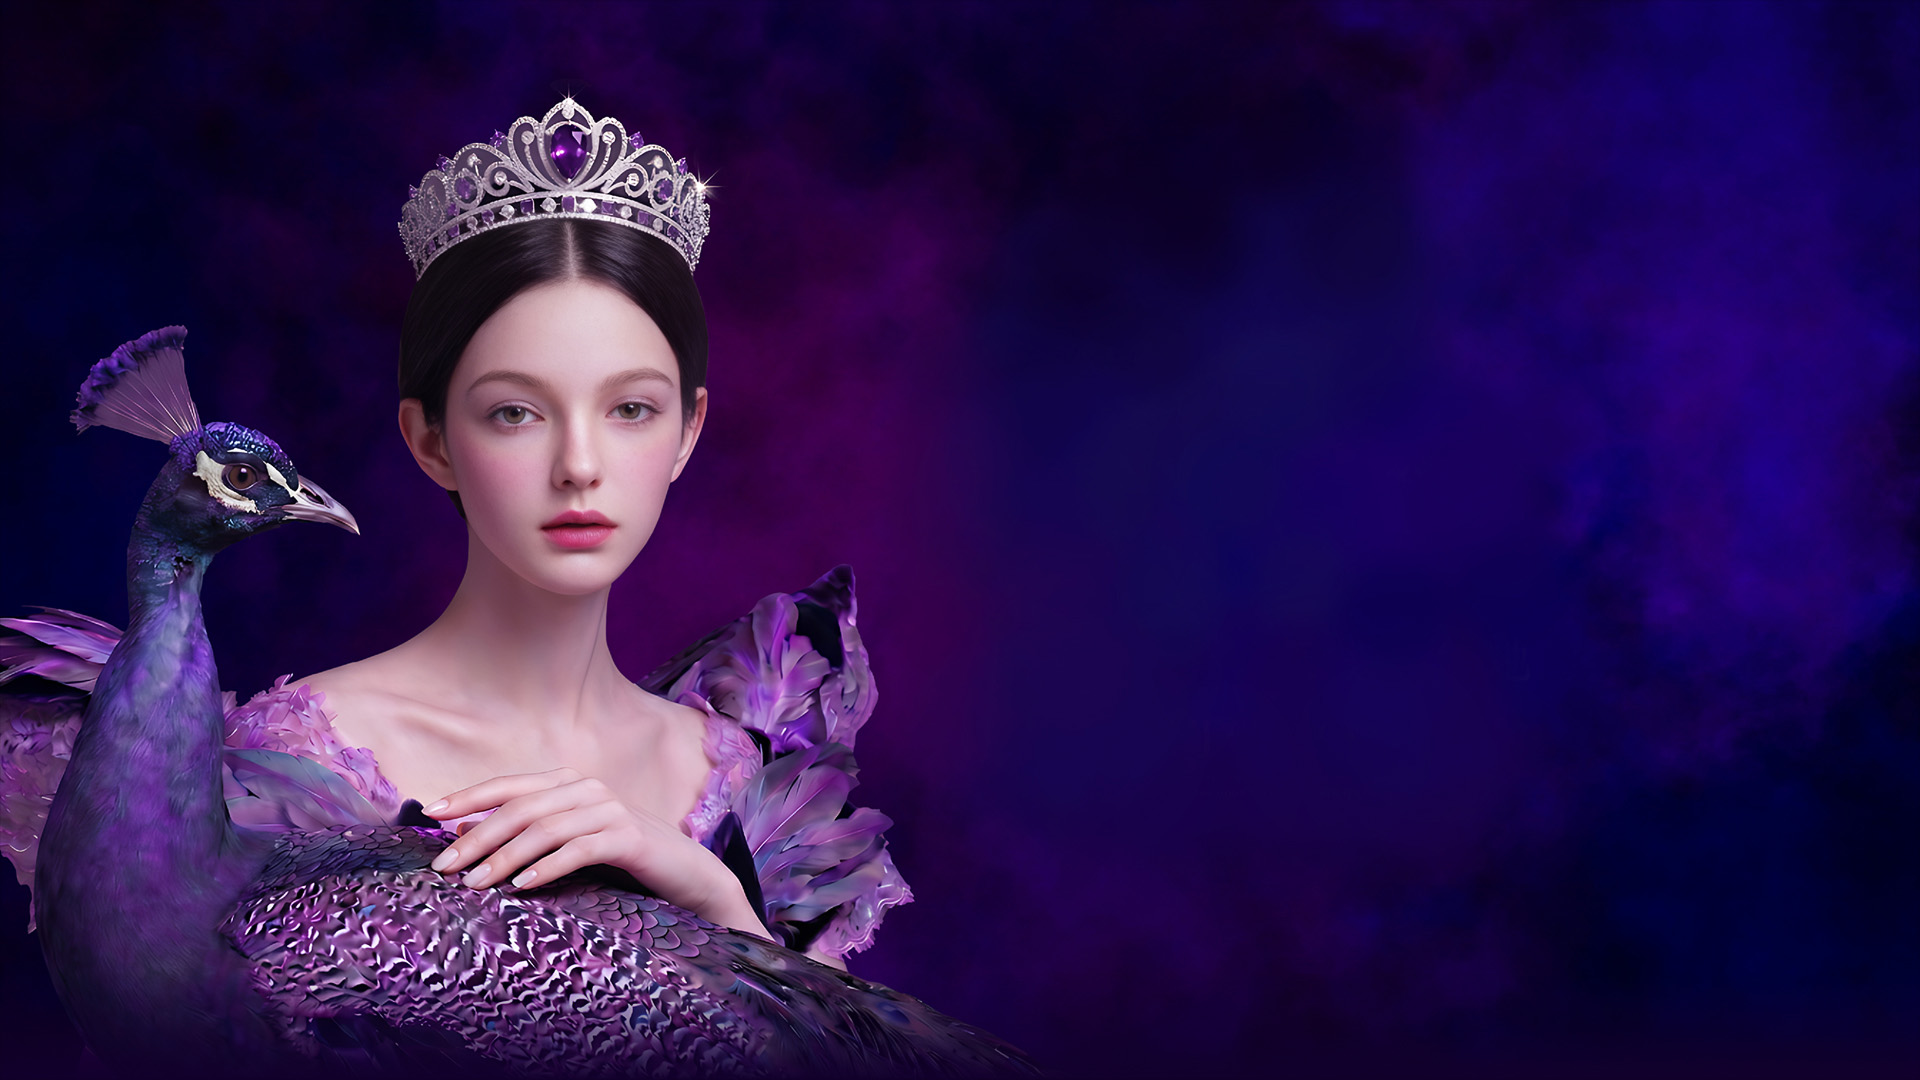
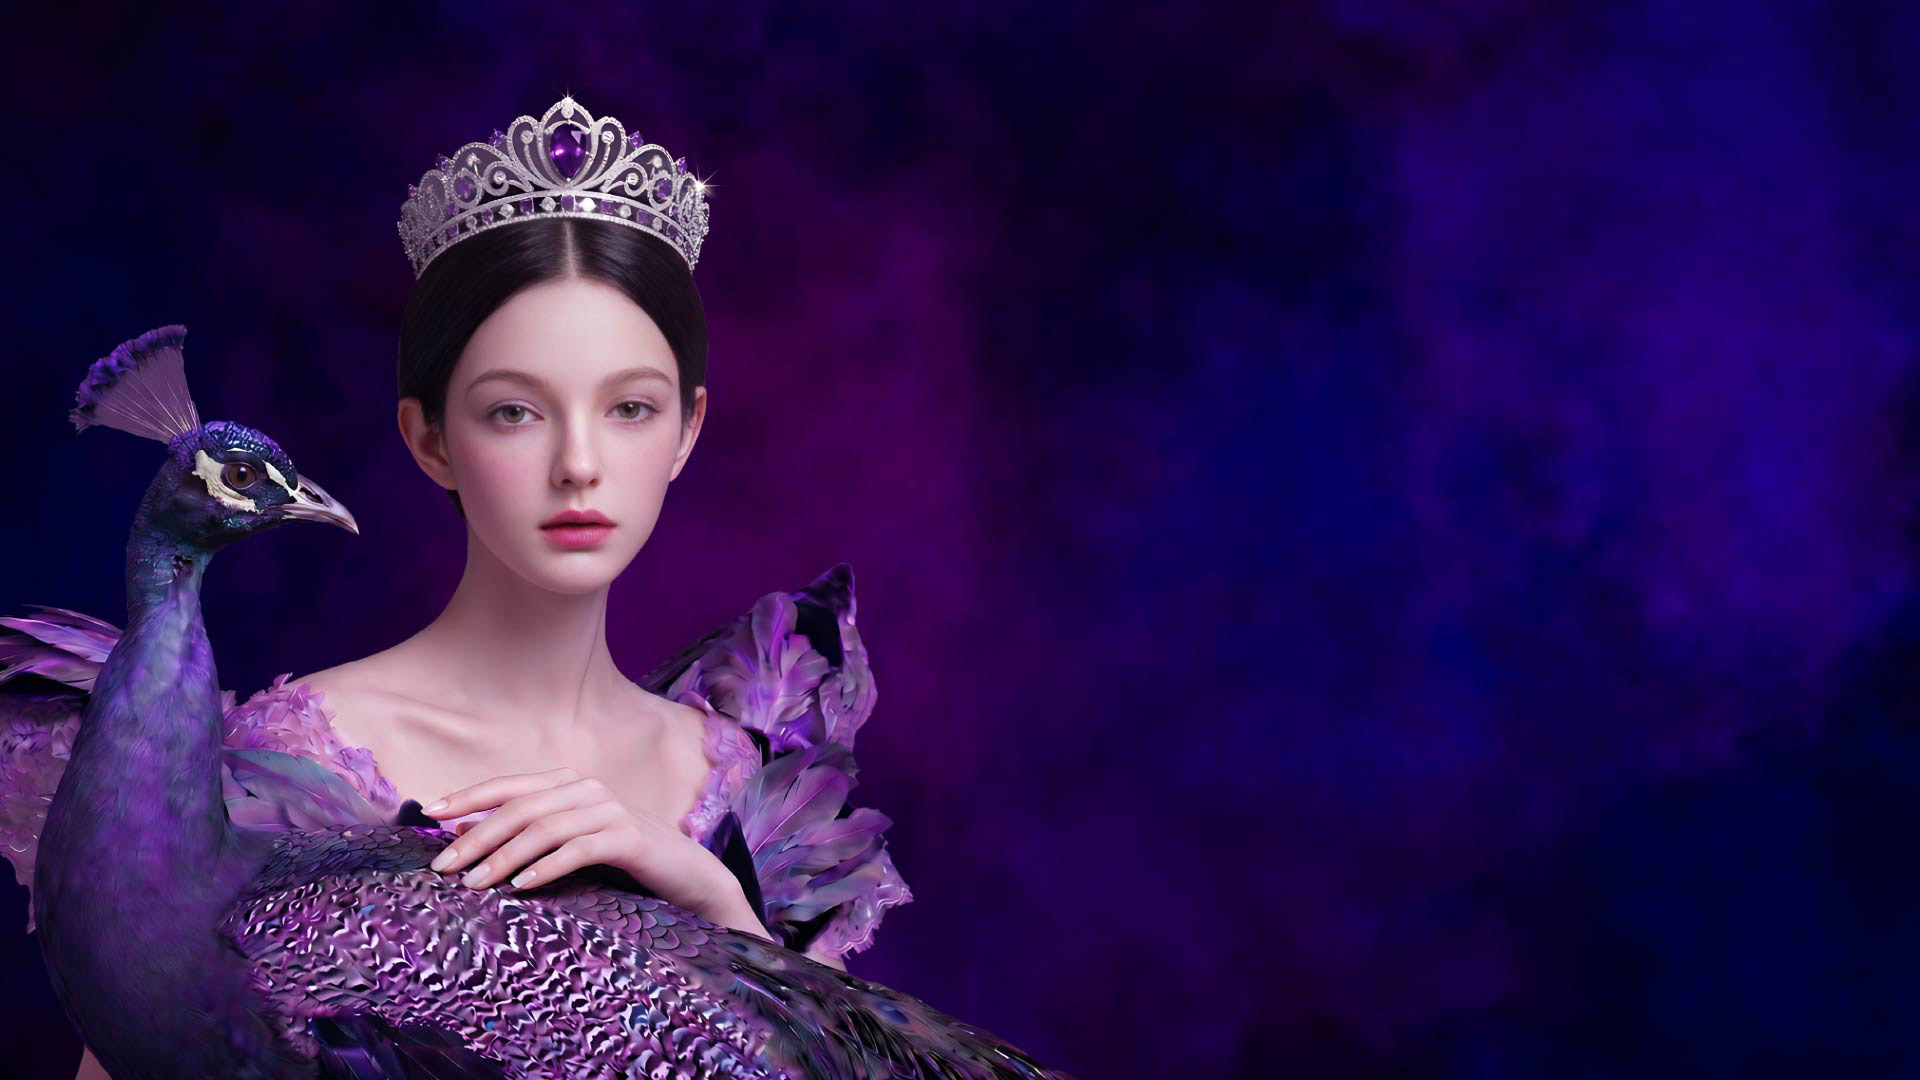
改主視覺跟背景

diff --git a/src/section/s2.vue b/src/section/s2.vue
@@ -95,20 +95,29 @@
 .s2 {
   @apply relative w-full z-0;
   height: size(2250);
-  background-image:linear-gradient(0deg, #28154a 70%, rgba(15, 35, 81, 0) 100%); 
+  
+  background-image: url("@/section/s1/bg1.jpg");
+    background-size:cover;
+ // background-image:linear-gradient(0deg, #28154a 70%, rgba(15, 35, 81, 0) 100%); 
   border-top:2px solid #ceaa6d;   
   &::after {
-    @apply absolute w-full h-full z-10;
+    @apply absolute ;
     content: "";
-   // background-image: url("@/section/s2/bg.png");
-    background-position: top;
-    background-size: 100%;
-    background-repeat: no-repeat;
+    top: size(1067);
+    left: 0;
+    right: 0;
+    display: block;
+    width: 100%;
+    z-index: 21;
+height: size(500);transform: translateY(-50%);
+// background:#6663;
+background: linear-gradient(0deg,  #330c5300, #330c53 , #330c5300);
   }
 
   .leaf-box {
-    @apply left-1/2 -translate-x-1/2 top-0 z-20 absolute;
+    @apply left-1/2 -translate-x-1/2 top-0  absolute;
     top: size(640);
+    z-index: 22;
     .leafs {
       @apply flex;
       width: size(1594);
@@ -180,22 +189,16 @@
 @media screen and (max-width: 767px) {
   .s2 {
     height: sizem(1920);
-    background-image:linear-gradient(0deg, #28154a 75%, rgba(15, 35, 81, 0) 100%);
-  
-   // background: #1b527a;
-    &::after {
-      @apply absolute w-full h-full z-10;
-      content: "";
-    //  background-image: url("@/section/s2/bgm.jpg");
-      background-position: top;
-      background-size: 100%;
-      background-repeat: no-repeat;
-    }
+    
+  &::after {
+    top: sizem(1092);
+height: sizem(100); }
 
     .splide {
-      @apply absolute w-full z-20;
+      @apply absolute w-full;
       height: sizem(190);
       top: sizem(500);
+      z-index: 22;
       .splide__slide {
         @apply relative cursor-pointer;
         background-size: contain;
@@ -220,18 +223,18 @@
       }
     }
     .leaf-img {
-      @apply absolute z-20;
+      @apply absolute z-30;
       width: sizem(330);
       top: sizem(700);
       left: sizem(22.5);
     }
     .leaf-arrow {
-      @apply absolute z-20;
+      @apply absolute z-30;
       top: sizem(950);
       right: sizem(22.5);
     }
     .gor,.gol{
-      @apply absolute z-20;
+      @apply absolute z-30;
       top: sizem(500);
       right: 0;
       width:  sizem(100);height:  sizem(750);

diff --git a/src/section/order.vue b/src/section/order.vue
@@ -144,7 +144,7 @@
 
 .order-section {
   position: relative;
-  padding-top: size(280);
+  padding-top: size(200);
   overflow: hidden;
   min-height: size(500);
 
@@ -155,7 +155,7 @@
     bottom: size(50);
     vertical-align: middle;
   }
-
+/*
   &:before {
     content: "";
     width: 100%;
@@ -186,6 +186,7 @@
        #47005c 100%,
     );
   }
+    */
 }
 
 .order {
@@ -193,6 +194,8 @@
   width: 100%;
   padding-top: 0;
 
+  background-image: url("@/section/s1/bg1.jpg");
+    background-size:cover;
   .bird {
     @apply absolute;
     width: size(155);
@@ -331,20 +334,17 @@
 @media screen and (max-width: 768px) {
   .order-section {
     min-height: sizem(800);
-    position: relative;
+    position: relative;  
+      padding-top: sizem(90);
     // overflow: hidden;
     // padding-top: sizem(200);
 
-    .bg-image {
-      position: absolute;
-      width: 100%;
-      left: -#{sizem(30)};
-      bottom: sizem(590);
-    }
   }
 
   .order {
     width: 100%;
+  background-image: url("@/section/form/bgm.jpg");
+    
     // padding-bottom: sizem(63);
     // border-radius: sizem(68) sizem(68) 0 0;
     /* padding-top: sizem(0);

diff --git a/src/pages/Home.vue b/src/pages/Home.vue
@@ -15,10 +15,9 @@
   <div
     class="home bg-[#fff] overflow-hidden font-['Noto_Sans_TC'] pb-[64px] md:pb-0"
   >
-  <div class="bgs1s2">
     <S1 />
     <!-- <Vid /> -->
-    <S2 /></div>
+    <S2 />
     <S3 />
     <S4 />
   <!--<S5 />-->
@@ -38,6 +37,7 @@ img {
 .home {
   background: #efefef;
 }
+/*
 .bgs1s2{
   background-image: url("@/section/s1/bg1.jpg");
     background-size: 100%;
@@ -49,6 +49,7 @@ img {
   background-image: url("@/section/s1/bg1m.jpg");
 }
 }
+*/
 </style>
 
 <script setup>

diff --git a/src/section/s1.vue b/src/section/s1.vue
@@ -108,8 +108,8 @@
       left: auto;
       right: auto;
       margin: auto;
-      top: calc(50% + #{sizem(130-(604 * 0.5))});
-      width: sizem(271);
+      top: calc(50% + #{sizem(70-(604 * 0.5))});
+      width: sizem(215);
     }
 
     .img1 {
